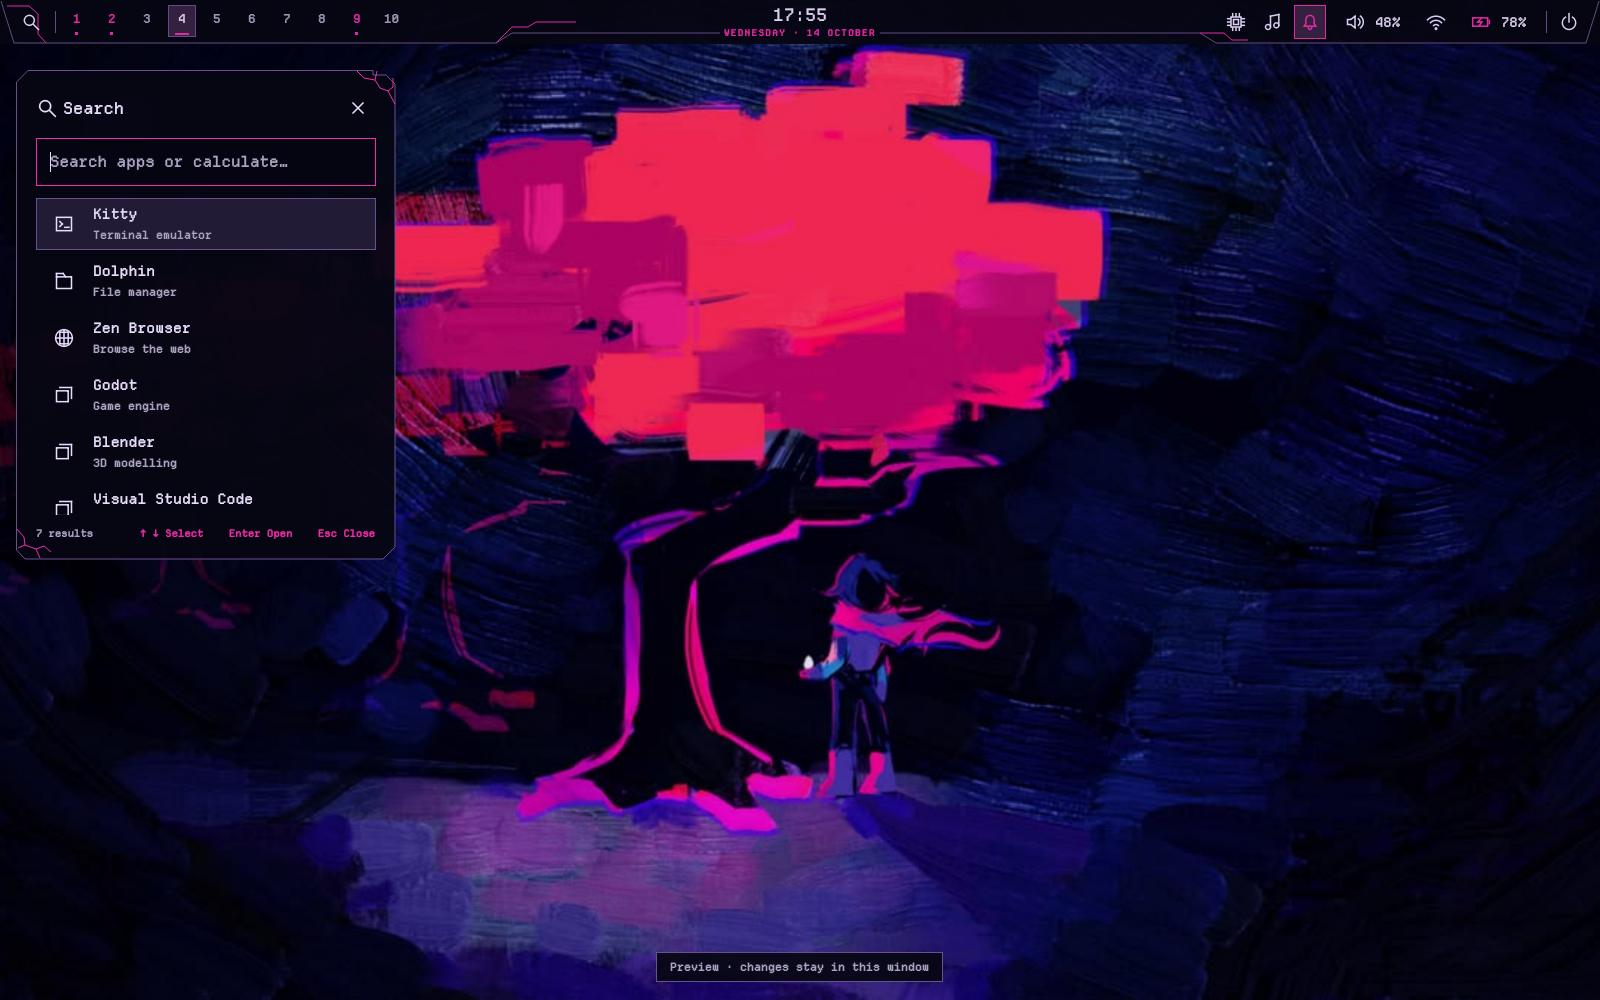
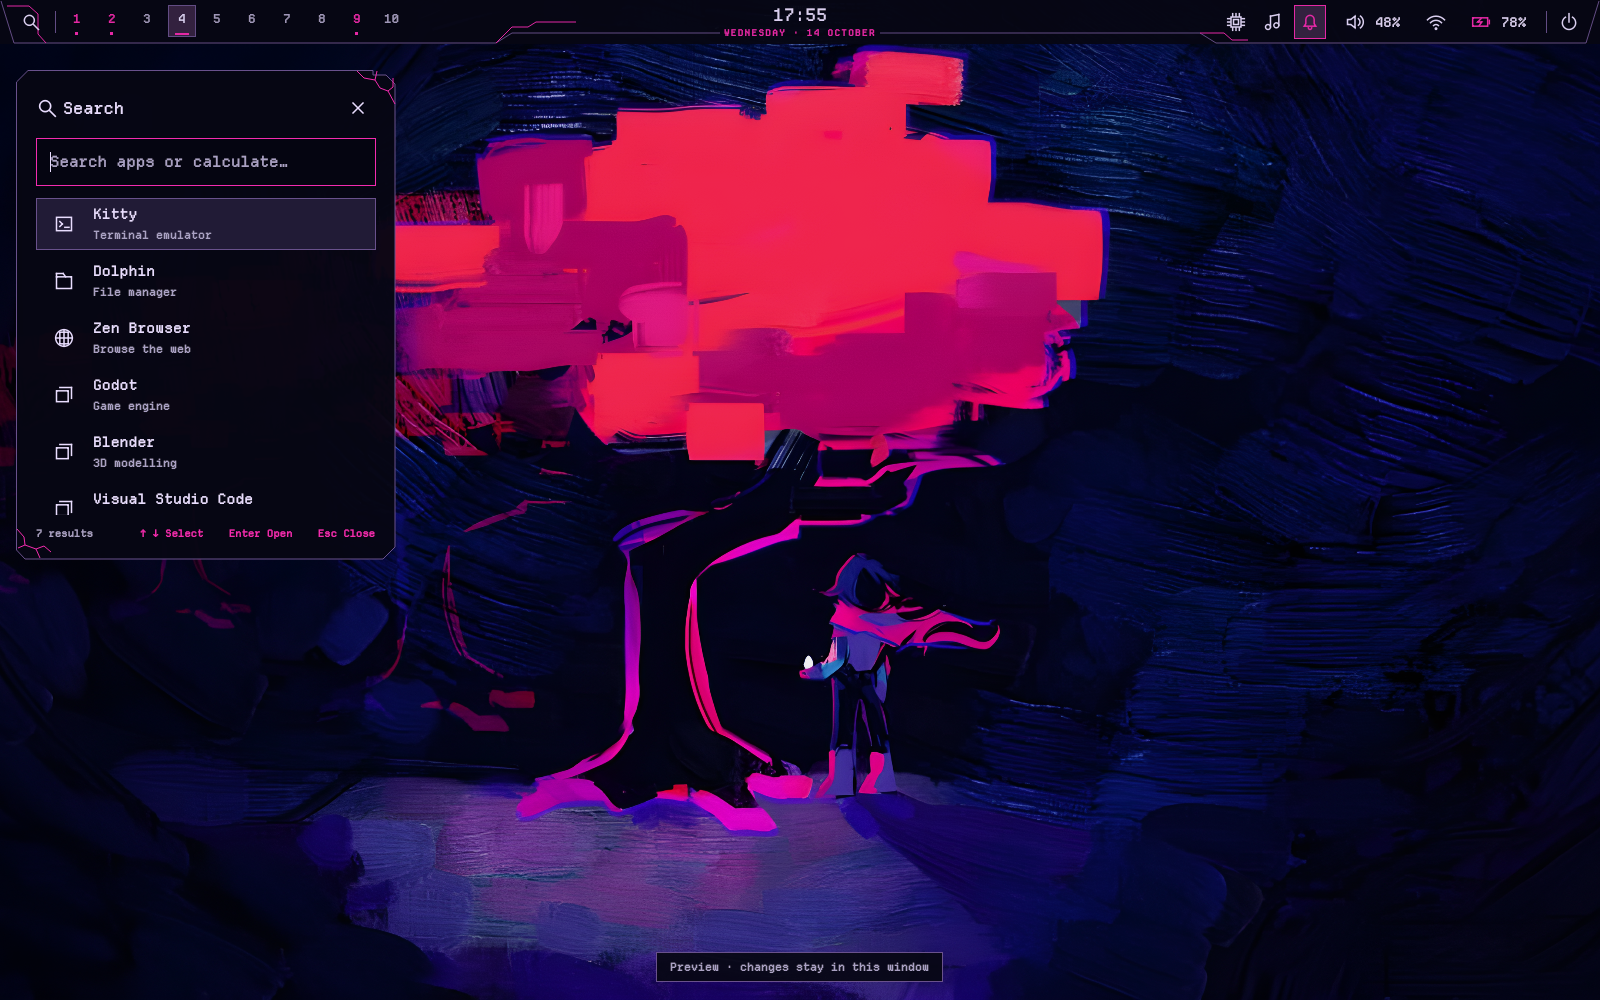
Restore hidden-tree wallpaper at 4x with Real-ESRGAN

diff --git a/checks/test_deltarune.py b/checks/test_deltarune.py
@@ -41,9 +41,11 @@ class DeltaruneRevisionTests(qt.PreferenceUiTests):
         self.assertFalse(qt.evaluate(frame,'Theme.partyStripEnabled'))
         self.assertEqual(qt.evaluate(frame,'Theme.loadedFont.status'),1)
         self.assertIn('Departure',qt.evaluate(frame,'Theme.bodyFont'))
-        source=QImage(str(ROOT/'themes/deltarune/wallpaper-source.jpeg'))
+        original=QImage(str(ROOT/'themes/deltarune/wallpaper-source.jpeg'))
+        source=QImage(str(ROOT/'themes/deltarune/files/style/wallpaper.png'))
         wallpaper=QImage(str(qt.ROOT/'payload/style/wallpaper.png'))
-        self.assertEqual((wallpaper.width(),wallpaper.height()),(1200,675))
+        self.assertEqual((original.width(),original.height()),(1200,675))
+        self.assertEqual((wallpaper.width(),wallpaper.height()),(original.width()*4,original.height()*4))
         self.assertEqual(source.convertToFormat(QImage.Format_RGBA8888),wallpaper.convertToFormat(QImage.Format_RGBA8888))
 
 

diff --git a/STATUS.md b/STATUS.md
@@ -1,8 +1,34 @@
 # Güncel durum
 
-Son inceleme: **2026-10-19**. Kaynak taban: **2.9.0 / Deltarune 0.3.0**.
+Son inceleme: **2026-10-19**. Kaynak taban: **2.9.0 / Deltarune 0.3.1**.
 Aşama: **Plague Tale ve Deltarune mevcut görünüm/kullanım onaylı; tema çizgisi görünüm/normal kullanım kullanıcı onaylı**. Genel yayın/lisans ve geniş dağıtım matrisi ayrı açık iş olarak kalır.
 Bu kayıt uygulamaları kullanıcının cihazında çalıştırmış gibi yorumlanamaz.
+
+## 19 Ekim 22:58 — Wallpaper 4× restorasyonu
+
+22:57 kullanıcı 0.3.0 için başarılı check/apply ve GitHub push logunu paylaştı;
+`feature/deltarune-hidden-tree`, commit `8464b3f749ebd60460783c736741c3771e48f36a`.
+“Tamam bu hazır” dedi; tek yeni eksik düşük wallpaper kalitesi. Görünümün önceki
+bekleyen kabulü bu beyanla güncellendi. 22:58'de önerilen Real-ESRGAN yolunu
+denemeyi açıkça istedi.
+
+Genel ve anime modelleri aynı Kris/ağaç bölgesinde karşılaştırıldı. Fırça dokusunu
+daha fazla koruyan resmi `RealESRGAN_x4plus` seçildi; 1200×675 → 4800×2700 RGB
+PNG üretildi. Sinir ağı restorasyonudur; sanatçının native yüksek çözünürlüklü
+orijinali veya kaynak piksellerle eşit dönüşüm değildir. Orijinal JPEG değişmedi.
+Model/source/output hash'leri ve işlem parametreleri
+`themes/deltarune/restoration.json` içinde. Wallpaper, shell, lock cover fallback
+ve ayrı SDDM kaynak görseli aynı PNG'yi kullanır; tema sürümü 0.3.1.
+Ortak runtime, kısayollar, palet ve panel düzeni değişmedi. Yeni görüntünün
+kullanıcının ekranındaki kalite kabulü beklenir; SDDM hâlâ ayrı kurucudur.
+
+19 Ekim bu revizyon için dört RGB PNG'nin tam decode/4800×2700/hash eşitliği,
+orijinal JPEG hash'inin korunması ve Engine.load manifest bütünlüğü denetlendi.
+İki mevcut Qt Deltarune revizyon testi geçti (konum/merkez tercihi, font/alt şerit
+ve kurulu wallpaper'ın yeni canonical PNG ile eşitliği). Launcher QML render'ı
+görsel incelendi; diğer yüzey preview'ları da yeni wallpaper ile yenilendi.
+Önceki 112 test/116 QML sonucu 0.3.0'a aittir; hepsi bu görsel revizyonda tekrar
+çalıştırılmış gibi sunulmaz. Native oturuma bu ortamdan kurulmadı.
 
 ## 19 Ekim 21:34 — Dört referans, önce indigo/fuşya ağaç teması
 

diff --git a/docs/DELTARUNE.md b/docs/DELTARUNE.md
@@ -1,4 +1,4 @@
-# Deltarune — 0.3.0 / ağaç ve Kris
+# Deltarune — 0.3.1 / ağaç ve Kris
 
 Ortak kaynak 2.9.0, ABI `mct-shell-2.9`; bu revizyon ortak ABI'yi değiştirmez.
 Önceki 0.2.0 camgöbeği fountain görünümünün yerine kullanıcının seçtiği son
@@ -25,14 +25,18 @@ Bu görsel paket için `update.sh`, masaüstü restore veya önce eski temayı r
 etmek gerekmez. Source ortak ABI farklı diyorsa bu komut zaten durur;
 [2.9 yükseltme rehberi](UPGRADE_2_9.md) eski kaynaklar içindir, bu revizyonda
 çalışan sistemi baştan kurma adımı değildir. Mevcut ilk restore yedeği ve tercihler
-korunur. Aynı `deltarune` kimliği yeni 0.3.0 sürümünü uygular.
+korunur. Aynı `deltarune` kimliği yeni 0.3.1 sürümünü uygular.
 
 Kurulumsuz bakmak: `bash preview.sh deltarune`.
 [Medya render'ı](../previews/deltarune/media.png). Preview altındaki bilgi etiketi
 sadece önizleme penceresindedir; native masaüstüne alt menü eklenmez.
 
-Wallpaper sağlanan orijinal 1200×675 JPEG'den piksel eşit PNG dönüşümüdür;
-resim yeniden çizilmedi, yapay olarak yüksek çözünürlük iddia edilmez. Referanstaki
+Wallpaper kullanıcının onayıyla **RealESRGAN_x4plus** üzerinden 4× büyütüldü:
+1200×675 → 4800×2700 PNG. Bu, sanatçının yüksek çözünürlüklü orijinali değil,
+sinir ağıyla restore edilmiş türevdir. Kaynak JPEG değişmeden korunur. Fırça
+dokusunu daha fazla koruduğu için iki küçük örnekten genel model seçildi.
+Kaynak/model/hash bilgisi [restoration.json](../themes/deltarune/restoration.json)
+içindedir. 0.3.0 yalnız format dönüşümü kullanıyordu. Referanstaki
 dekoratif müzik progress çizgisi bir sahte seek kontrolüne dönüştürülmedi;
 mevcut gerçek MPRIS oynat/duraklat/önceki/sonraki ve oyuncu seçimi korunur.
 

diff --git a/docs/VALIDATION.md b/docs/VALIDATION.md
@@ -579,3 +579,23 @@ Paket preview'sı QML launcher render'ıdır; AI konseptiyle karıştırılmaz.
 Installer'lar geçici dizin/mock altında test edildi. Gerçek Hyprland/QuickShell
 servis devralma, PAM/login, kullanıcı cihaz tuşları veya Spotify/Dolphin uygulaması
 bu ortamda çalıştırılmadı; yeni native görünüm/kullanım kabulü beklenir.
+
+## 19 Ekim 22:58 — Deltarune 0.3.1 / Real-ESRGAN 4×
+
+Resmi RealESRGAN_x4plus ve anime_6B modelleri aynı 256×256 Kris/ağaç bölgesinde
+CPU inference ile karşılaştırıldı; genel model seçildi. Tam kaynak 4× restore
+edildi: 4800×2700 RGB PNG, 13.314.512 byte. Model/çıktı SHA256, mimari ve tile
+parametreleri themes/deltarune/restoration.json içinde. Orijinal JPEG korunur.
+
+Bu revizyon için 2 mevcut DeltaruneRevisionTests vakası geçici theme_preview.stage
+kökünde çalıştırıldı: test_controls_right_launcher_left_and_center_preference_preserved,
+test_bottom_strip_removed_font_and_wallpaper_preserved. İkisi de geçti.
+Engine.load manifest/bütünlük, dört PNG tam decode/boyut/RGB/hash eşitliği ve
+orijinal JPEG SHA256 korunması denetlendi. Önceki 112 test/116 QML sonucu 0.3.0
+kaydıdır; ortak davranış/QML bu işte değişmediği için tamamı tekrar çalıştırılmadı.
+
+Gerçek QML launcher/medya/controls/OSD/switcher ve sahte SDDM login preview'ları
+yeni wallpaper ile yenilendi; launcher ve model crop karşılaştırması görsel
+incelendi. Manifest preview hash'i gerçek yeni QML render'ına güncellendi.
+Büyütülmüş görsel sanatçının native yüksek çözünürlüklü kaynağı değildir.
+Yeni fiziksel ekran kalite kabulü ve ayrı SDDM kurulum sonucu kullanıcıda kalır.

diff --git a/docs/ASSETS_AND_LICENSES.md b/docs/ASSETS_AND_LICENSES.md
@@ -2,6 +2,22 @@
 
 Bu dosya köken kaydıdır; mevcut hakları değiştiren bir lisans değildir.
 
+## 19 Ekim 22:58 — Kullanıcı onaylı 4× restorasyon
+
+- Deltarune **0.3.1** wallpaper'ı, orijinal 1200×675 JPEG'den resmi
+  [RealESRGAN_x4plus modeli](https://github.com/xinntao/Real-ESRGAN/releases/download/v0.1.0/RealESRGAN_x4plus.pth)
+  ve [BasicSR RRDBNet mimarisi](https://github.com/XPixelGroup/BasicSR/blob/master/basicsr/archs/rrdbnet_arch.py)
+  ile 4800×2700 RGB PNG'ye restore edildi. Kullanıcı bu yöntemi açıkça istedi.
+- Genel/anime modelleri aynı küçük bölgede karşılaştırıldı; genel model fırça
+  dokusunu daha iyi koruduğu için seçildi. Ek keskinleştirme veya renk düzenleme
+  yapılmadı. `previews/deltarune/upscale-comparison.png` gerçek sonuç örnekleridir.
+- Bu çıktı sanatçının native yüksek çözünürlüklü orijinali değildir; 0.3.0'daki
+  piksel eşit format dönüşümü iddiası bu sürüme uygulanmaz. Orijinal JPEG aynen
+  saklanır. Kaynak/model/mimari/çıktı SHA256 ve tile parametreleri
+  [restoration.json](../themes/deltarune/restoration.json) içinde.
+- Model ağırlıkları, PyTorch ortamı ve upstream mimari kodu depoya eklenmedi.
+  İşlem üçüncü taraf çizimin haklarını değiştirmez; önceki hak kaydı korunur.
+
 ## 19 Ekim — Dört Deltarune referansı / yeni wallpaper
 
 - Mevcut `deltarune` 0.3.0 wallpaper kaynağı kullanıcının gönderdiği

diff --git a/docs/CURRENT_BACKLOG.md b/docs/CURRENT_BACKLOG.md
@@ -3,9 +3,10 @@
 ## Güncel öncelik — dört Deltarune teması
 
 Kullanıcı dört görsel referansın tamamını ayrı tema olarak kabul etti. Önce
-mevcut `deltarune` son indigo/fuşya ağaç/Kris görünümüne taşınır: 0.3.0 kaynakta
-uygulandı; yeni cihaz/görünüm kontrolü açık. Eski 0.2.0 onayı korunur, yeni
-görünüm kendiliğinden onaylanmış sayılmaz. Ardından Guardian, neşeli gün batımı
+mevcut `deltarune` son indigo/fuşya ağaç/Kris görünümüne taşındı. 19 Ekim 22:57
+kullanıcı 0.3.0 check/apply ve push logunu paylaştı, “bu hazır” dedi; tek yeni
+eksik düşük wallpaper kalitesi. 22:58 isteğiyle 0.3.1 için Real-ESRGAN 4×
+restorasyonu uygulanır; bu yeni görüntünün cihaz kabulü açık. Ardından Guardian, neşeli gün batımı
 ve Snowgrave sonbahar ayrı üç tam tema olacak. Henüz uygulanmadılar.
 [Karar ve kaynaklar](decisions/0016-deltarune-four-worlds.md).
 Bu yeni öncelik, aşağıdaki harici adaptör otomasyonu önerisinden önce gelir.

diff --git a/ROADMAP.md b/ROADMAP.md
@@ -5,7 +5,9 @@ son ağaç/Kris referansına taşınır (0.3.0); kalan üç paket sonra gelişti
 
 1. **Şimdi:** indigo/lavanta/fuşya ağaç görünümü; shell, lock, Kitty ve bağımsız
    uygulama adaptörleri, gerçek Qt önizlemeleri ve ortak davranış regresyonu.
-   Kaynak uygulandı; yeni cihaz/görünüm kabulü beklenir.
+   22:57 kullanıcı 0.3.0 check/apply ve görünümü onayladı. Tek yeni eksik wallpaper
+   kalitesi; 22:58 onayıyla 0.3.1 Real-ESRGAN 4× restorasyonu yapılır. Yeni görüntü
+   için cihaz kalite kabulü beklenir.
 2. **Sonra:** Guardian, neşeli gün batımı ve Snowgrave sonbahar için üç ayrı
    tam görsel paket. Kesin paket adları ve aralarındaki uygulama sırası açık.
    Boş/yarım tema seçiciye eklenmez.

diff --git a/docs/THEME_PACKAGES.md b/docs/THEME_PACKAGES.md
@@ -1,6 +1,6 @@
 # Tema paket çekirdeği — 2.9.0
 
-ABI `mct-shell-2.9`; Deltarune 0.3.0 ve Plague Tale 2.9.0.
+ABI `mct-shell-2.9`; Deltarune 0.3.1 ve Plague Tale 2.9.0.
 [2.8'den güvenli yükseltme ve ayrı adaptör komutları](UPGRADE_2_9.md).
 İşlevler ortak `shell/surfaces/` içinde; paket ui dosyaları görsel wrapper'dır.
 Lock `layout.conf` artık izinli/zorunlu tema hedefidir. Kaynaklanan general/auth
